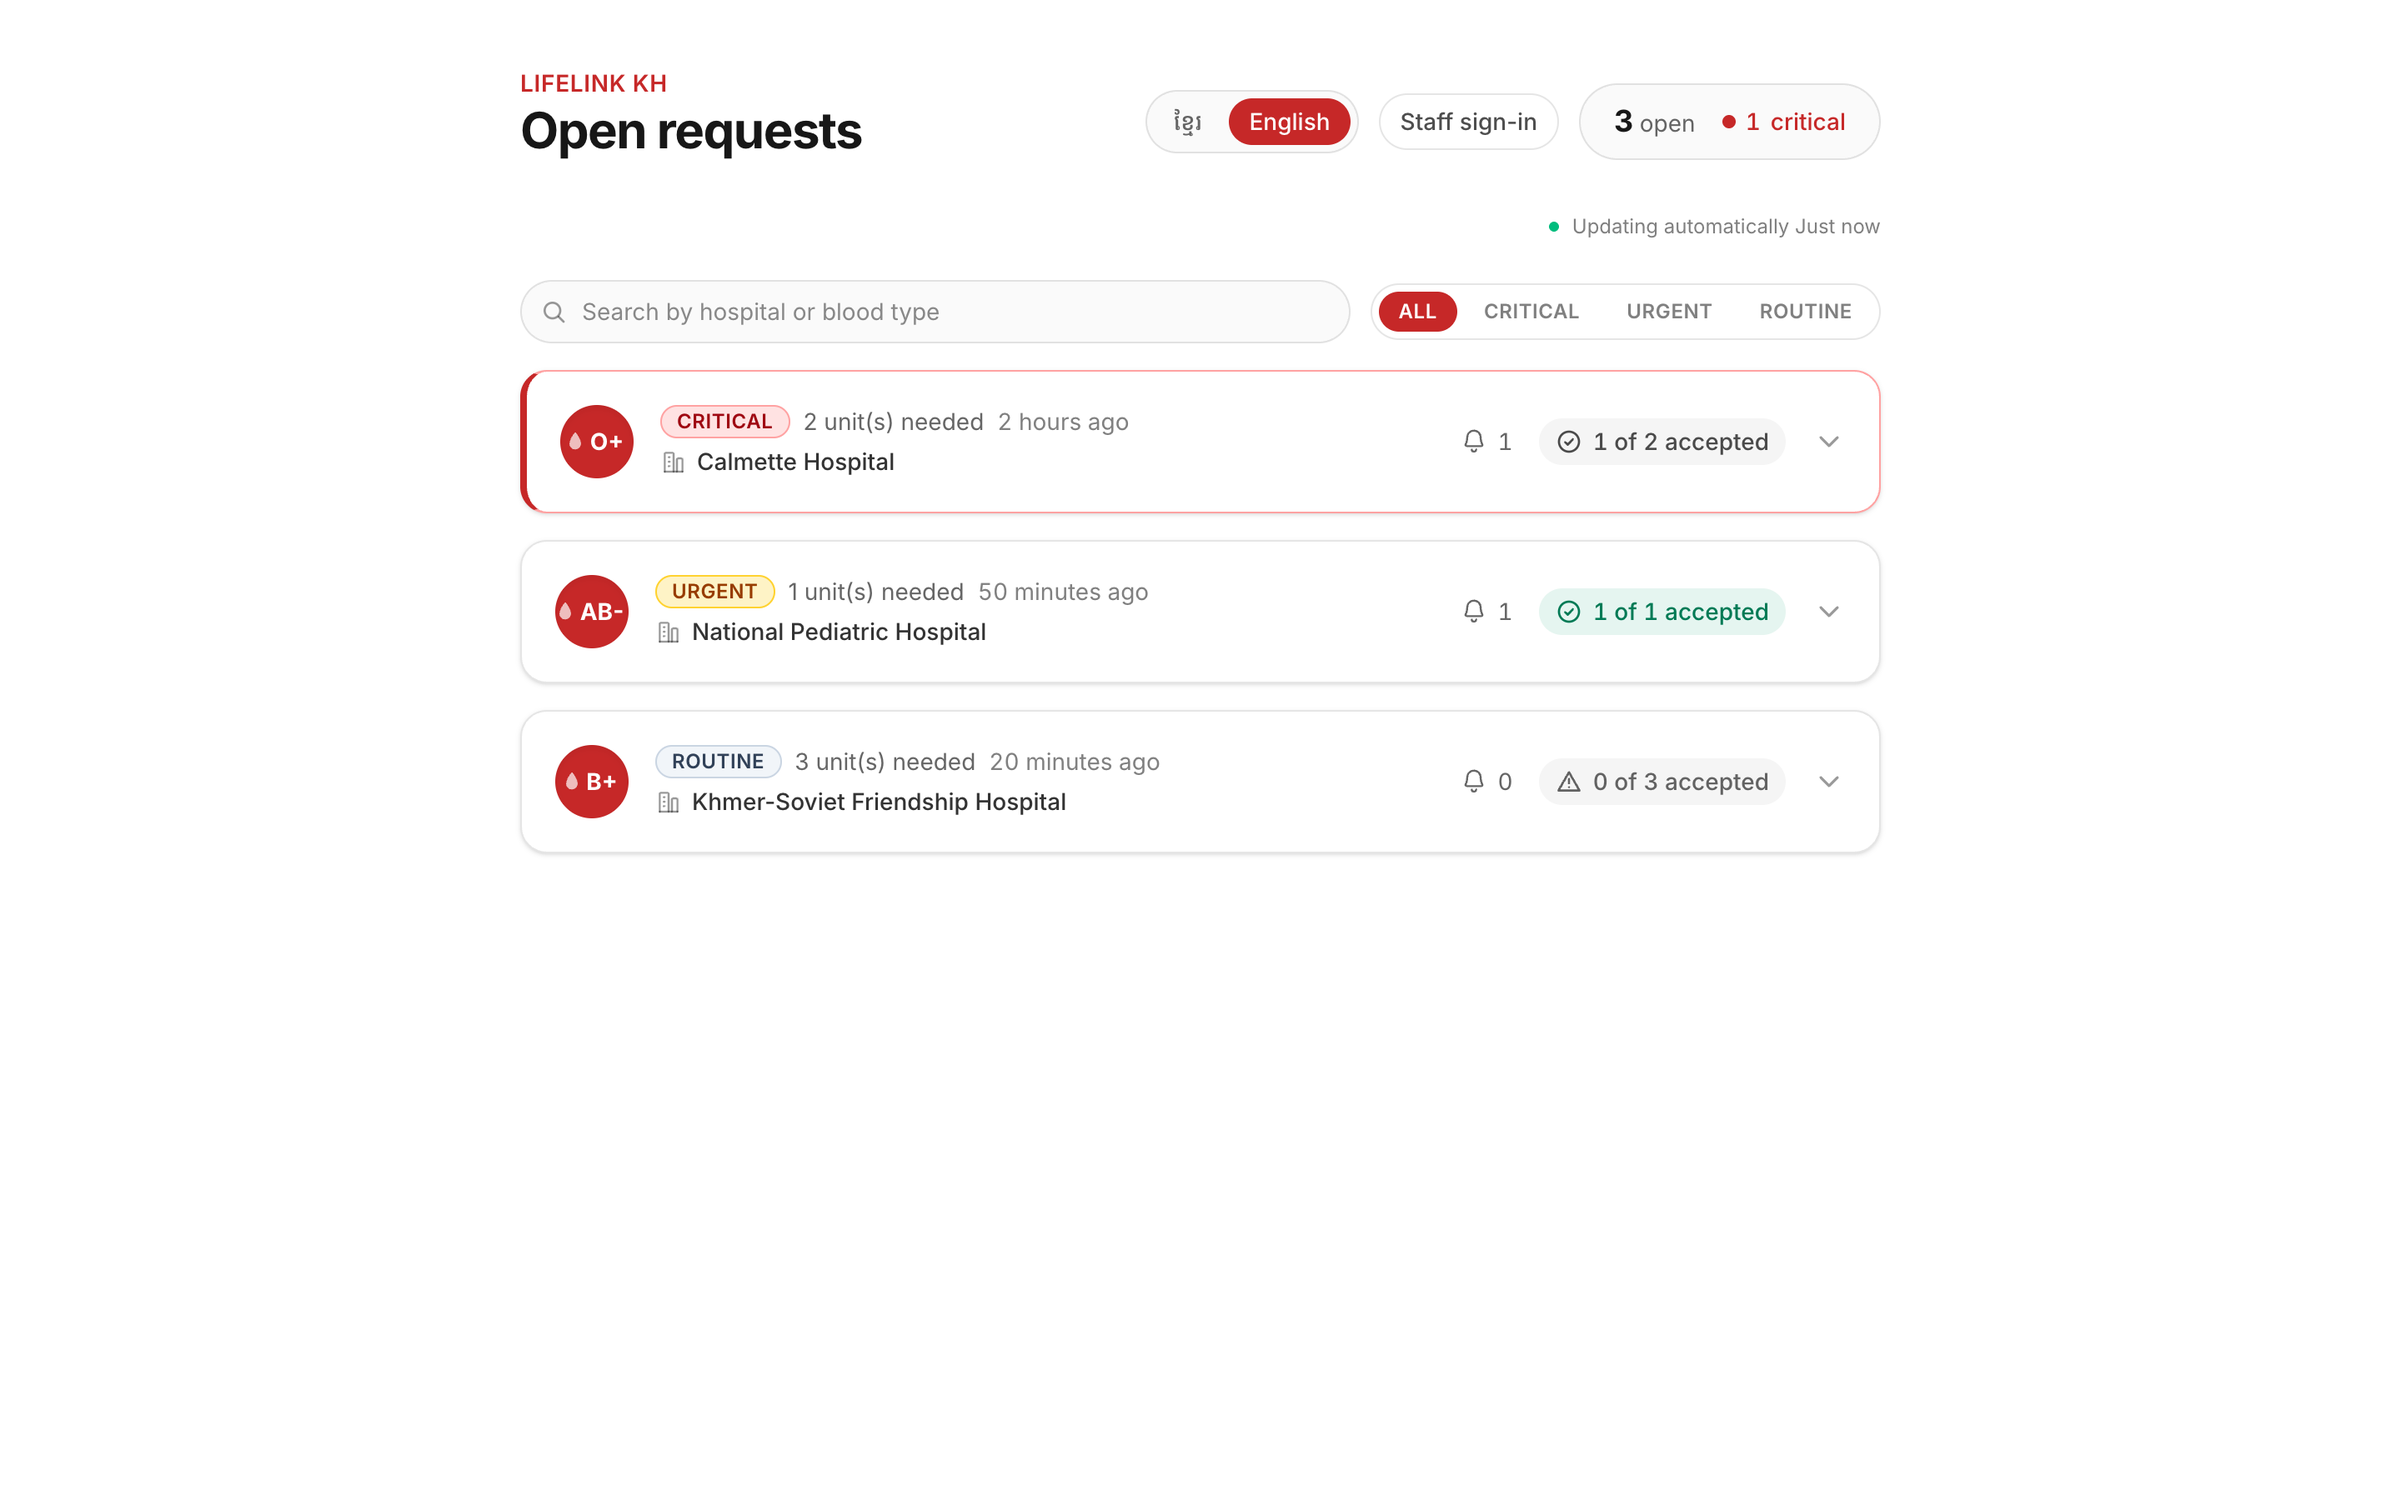
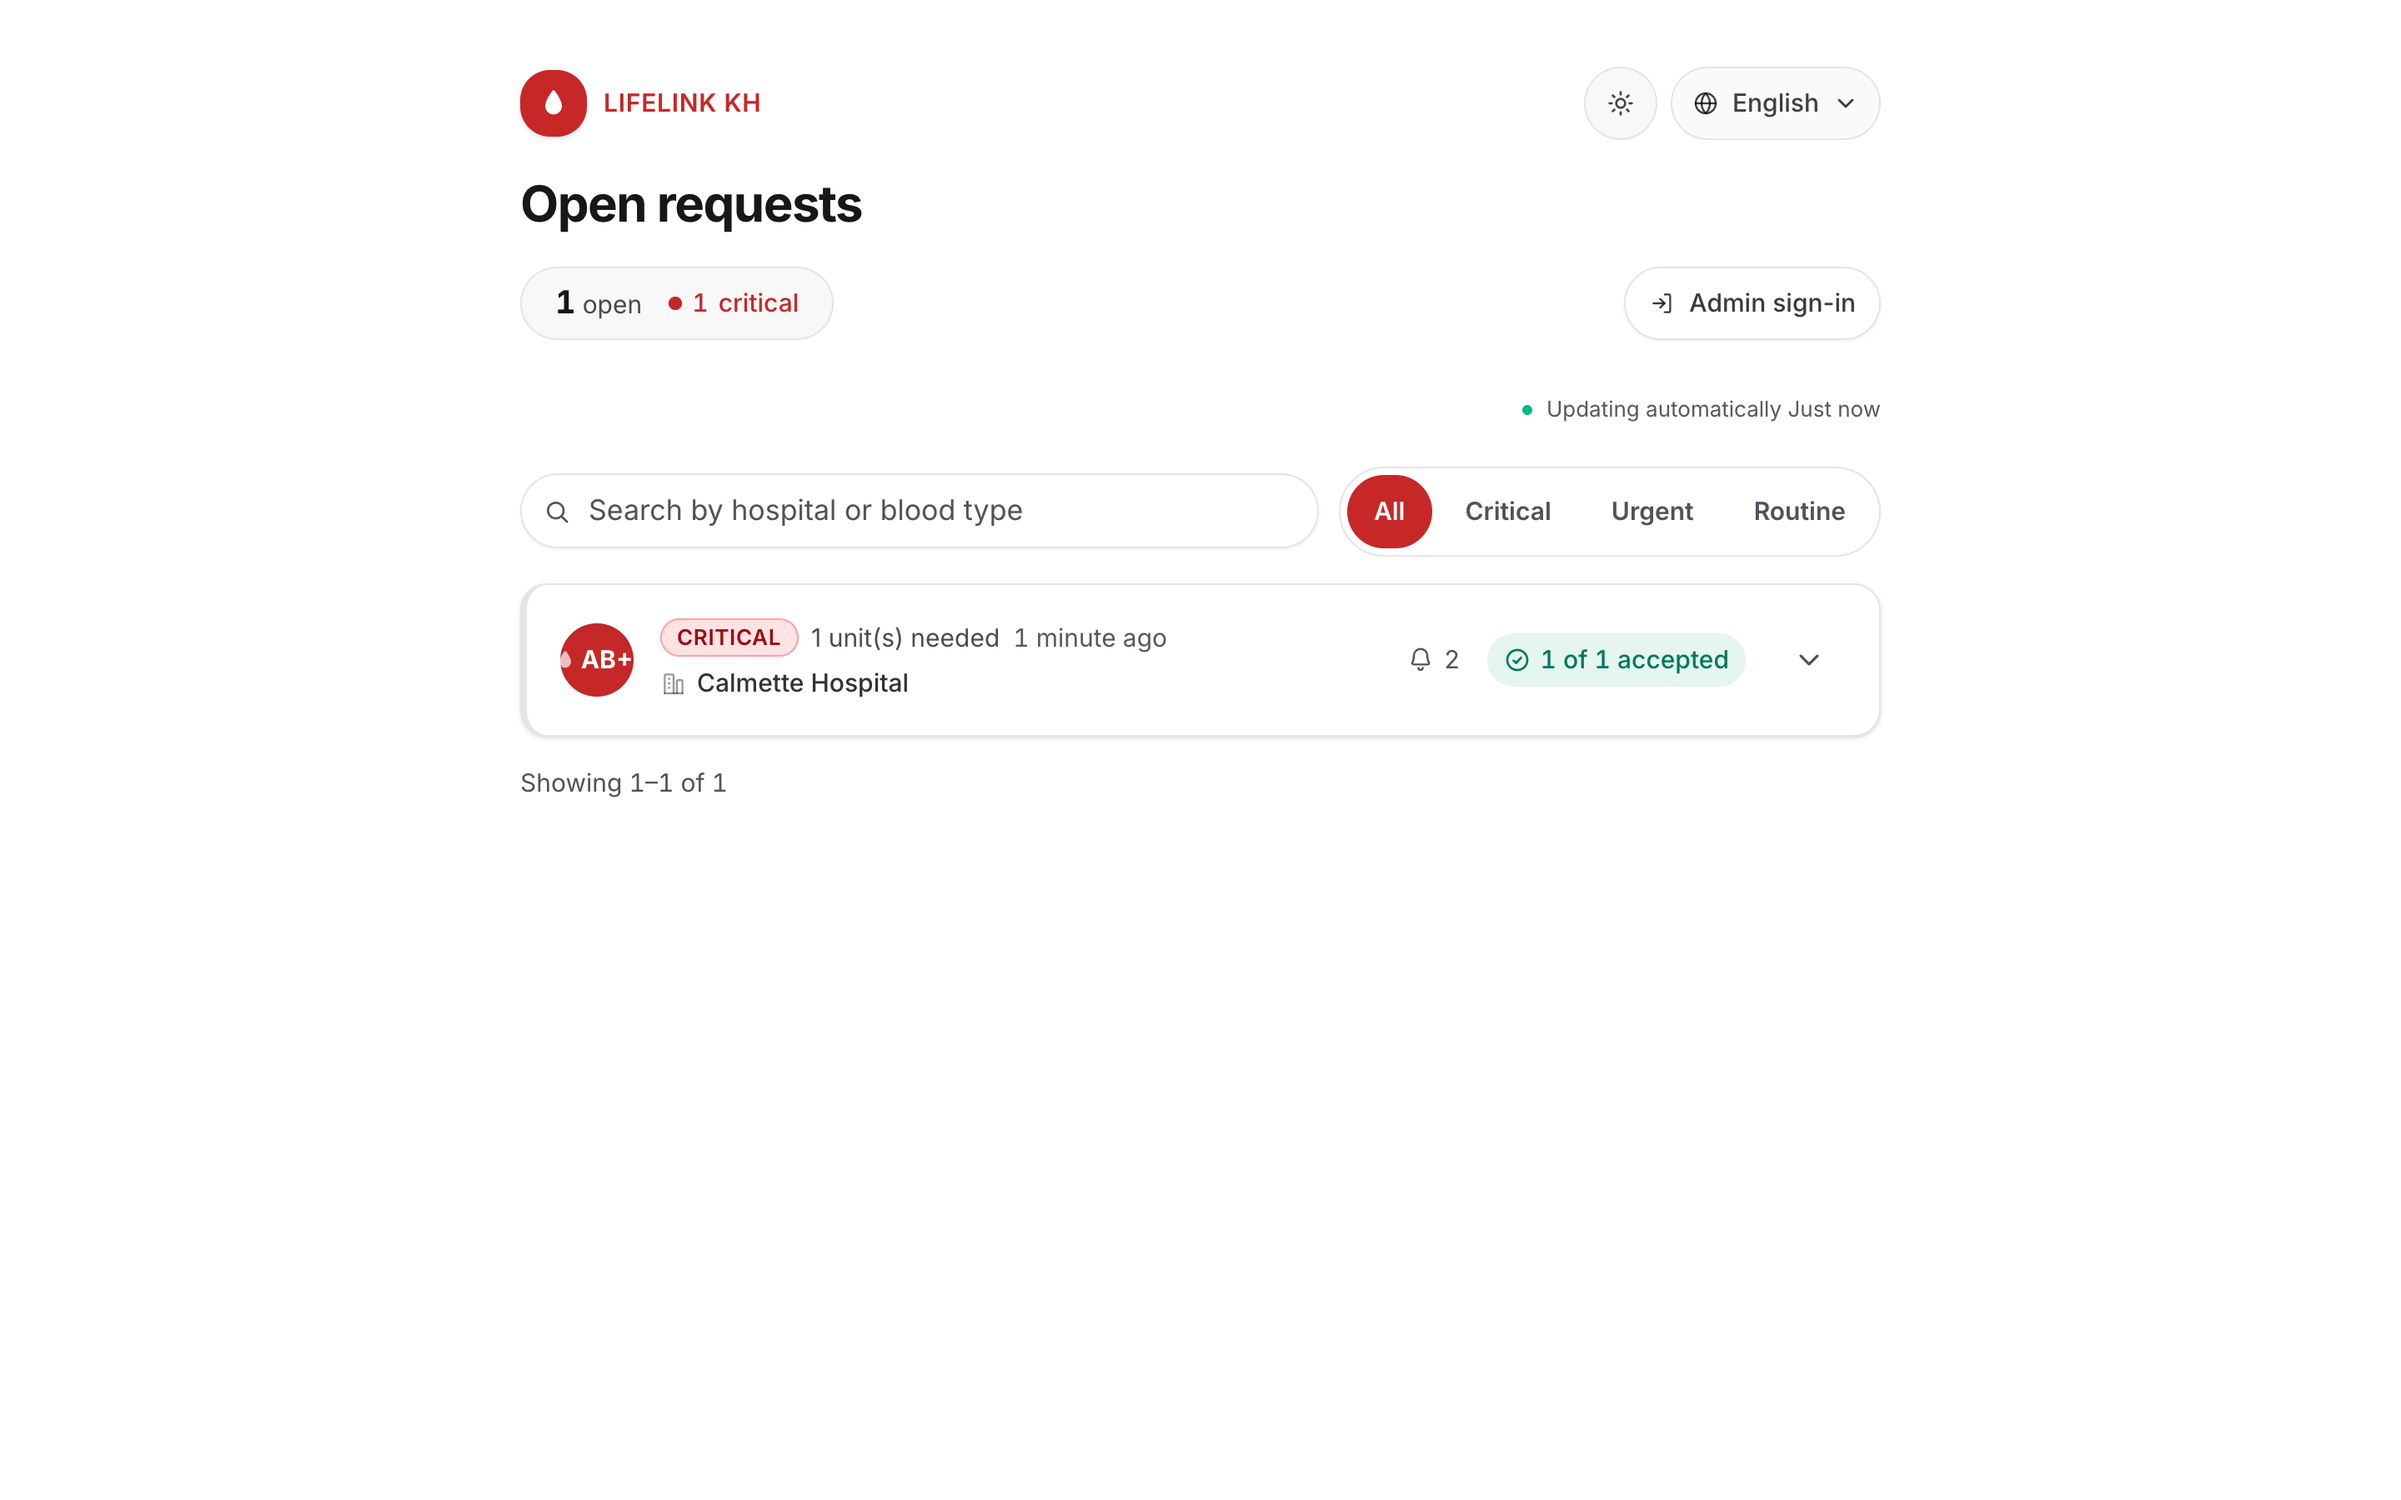
docs: recapture the portal screenshots after the shadcn/ui redesign
Home, public board (km, en) and the signed-in admin view with the review
queue, plus a new dashboard shot. Headless Chrome at 1440x900 x2, light
mode, emulators with the demo seed, Next dev badge hidden.

README: signed-in and dashboard shots side by side; the landing caption
no longer mentions the health line, which moved to the admin view.

The deck (LifeLinkKH-v2.pptx) is not rebuilt.

diff --git a/README.md b/README.md
@@ -29,7 +29,7 @@ Anyone can read it — no account, no login. Khmer is the default, because the u
 | | |
 |---|---|
 | ![The same board in English](docs/assets/screens/board-public-en.png) | ![The front door](docs/assets/screens/landing-km.png) |
-| **The same board, one tap later.** Every string in both clients ships in Khmer and English. | **The front door.** The board is one card away; the health line proves browser → Next server → Firestore, unmocked. |
+| **The same board, one tap later.** Every string in both clients ships in Khmer and English. | **The front door.** Get the app first, the board one card below, and the privacy and account-deletion pages. |
 
 ## The admin portal
 
@@ -50,9 +50,12 @@ and English, and 44px touch targets on phones.
 Public pages, no sign-in: the board, `/download` (the APK), `/privacy` (privacy policy) and
 `/delete-account` (how to delete an account, [DEC-016](docs/decisions.md)).
 
-![The board, signed in](docs/assets/screens/portal-staff-km.png)
+| | |
+|---|---|
+| ![The board, signed in](docs/assets/screens/portal-staff-km.png) | ![The dashboard](docs/assets/screens/portal-dashboard-km.png) |
+| **Signed in.** The review queue on top — requester, callback number, Approve / Reject — then the open requests. | **The dashboard.** PRD metrics against their targets, and the charts behind them. |
 
-*Screenshot taken before DEC-014 and the shadcn/ui redesign; the current portal looks different.*
+*Captured from the emulators with the demo seed (`npm run seed:demo`), so the numbers are small.*
 
 ## The donor app
 
